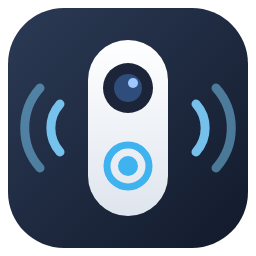
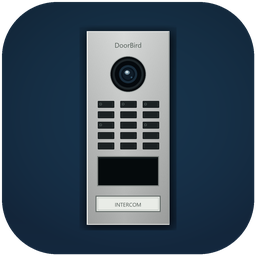
Prepare community plugin submission

diff --git a/tools/generate_icon.py b/tools/generate_icon.py
@@ -1,0 +1,114 @@
+#!/usr/bin/env python3
+"""Generate an original icon resembling DoorBird's flush-mounted metal door stations."""
+from pathlib import Path
+import random
+from PIL import Image, ImageDraw, ImageFilter, ImageFont
+
+SIZE = 1024
+OUT = Path(__file__).resolve().parents[1] / 'assets' / 'icon.png'
+
+image = Image.new('RGBA', (SIZE, SIZE))
+pixels = image.load()
+for y in range(SIZE):
+    for x in range(SIZE):
+        t = y / (SIZE - 1)
+        glow = max(0.0, 1.0 - (((x - 540) / 850) ** 2 + ((y - 250) / 750) ** 2))
+        pixels[x, y] = (
+            int(13 + 7 * t + 8 * glow),
+            int(24 + 16 * t + 22 * glow),
+            int(39 + 23 * t + 28 * glow),
+            255,
+        )
+mask = Image.new('L', (SIZE, SIZE), 0)
+ImageDraw.Draw(mask).rounded_rectangle((8, 8, 1016, 1016), radius=220, fill=255)
+image.putalpha(mask)
+background = image.copy()
+
+shadow = Image.new('RGBA', (SIZE, SIZE), 0)
+ImageDraw.Draw(shadow).rectangle((300, 34, 738, 1010), fill=(0, 0, 0, 190))
+shadow = shadow.filter(ImageFilter.GaussianBlur(25))
+image.alpha_composite(shadow)
+
+panel = Image.new('RGBA', (SIZE, SIZE), 0)
+panel_pixels = panel.load()
+random.seed(17)
+for y in range(28, 996):
+    for x in range(306, 718):
+        horizontal = x - 306
+        vertical = (y - 28) / 968
+        center_light = 24 * (1 - abs(horizontal / 412 - 0.45) * 1.6)
+        brushed = random.choice((-3, -2, -1, 0, 0, 0, 1, 2, 3))
+        shade = int(183 + center_light - 42 * vertical + brushed)
+        panel_pixels[x, y] = (min(238, shade + 10), min(240, shade + 12), min(240, shade + 11), 255)
+image.alpha_composite(panel)
+draw = ImageDraw.Draw(image)
+draw.rectangle((306, 28, 718, 996), outline='#E8EAE8', width=4)
+draw.line((309, 31, 309, 992), fill='#FAFAF6', width=3)
+draw.line((715, 31, 715, 992), fill='#858B89', width=3)
+
+
+def font(size):
+    for name in ('segoeui.ttf', 'arial.ttf'):
+        try:
+            return ImageFont.truetype(name, size)
+        except OSError:
+            pass
+    return ImageFont.load_default()
+
+
+def centered(text, y, font_size, color):
+    face = font(font_size)
+    box = draw.textbbox((0, 0), text, font=face)
+    draw.text((512 - (box[2] - box[0]) / 2, y), text, font=face, fill=color)
+
+
+centered('DoorBird', 74, 34, '#505B55')
+
+def camera_ellipse(bounds, color):
+    center_x, center_y, scale = 512, 243, 0.78
+    scaled = tuple(round(value) for value in (
+        center_x + (bounds[0] - center_x) * scale,
+        center_y + (bounds[1] - center_y) * scale,
+        center_x + (bounds[2] - center_x) * scale,
+        center_y + (bounds[3] - center_y) * scale,
+    ))
+    draw.ellipse(scaled, fill=color)
+
+
+camera_ellipse((395, 126, 629, 360), '#A2A8A6')
+camera_ellipse((401, 132, 623, 354), '#090D10')
+camera_ellipse((414, 145, 610, 341), '#1D2529')
+camera_ellipse((427, 158, 597, 328), '#05090D')
+camera_ellipse((454, 185, 570, 301), '#192C3B')
+camera_ellipse((468, 199, 556, 287), '#07111B')
+camera_ellipse((478, 209, 546, 277), '#101D29')
+camera_ellipse((490, 218, 522, 245), '#6A8798')
+camera_ellipse((497, 222, 513, 237), '#D1E0E4')
+camera_ellipse((529, 258, 539, 269), '#31546A')
+
+for row in range(5):
+    for column in range(3):
+        x = 361 + column * 112
+        y = 377 + row * 52
+        draw.rounded_rectangle((x, y, x + 82, y + 34), radius=3, fill='#252B2C')
+        draw.rectangle((x + 3, y + 3, x + 79, y + 31), outline='#0B1012', width=2)
+        for dot in range(4):
+            draw.line((x + 10, y + 9 + dot * 5, x + 72, y + 9 + dot * 5), fill='#0D1416', width=2)
+        if row == 0 or (row == 2 and column != 1):
+            draw.ellipse((x + 9, y + 10, x + 20, y + 21), outline='#64716D', width=2)
+
+draw.rectangle((358, 653, 666, 803), fill='#7F8582')
+draw.rectangle((363, 658, 661, 798), fill='#050A0C')
+draw.line((368, 663, 656, 663), fill='#172226', width=3)
+
+draw.rectangle((350, 851, 674, 932), fill='#676F6C')
+draw.rectangle((355, 856, 669, 927), fill='#E9ECE7')
+draw.rectangle((360, 861, 664, 922), outline='#B4BAB5', width=2)
+centered('INTERCOM', 876, 27, '#525B56')
+
+foreground = image.crop((270, 0, 754, 1024)).resize((388, 819), Image.Resampling.LANCZOS)
+image = background.copy()
+image.alpha_composite(foreground, (318, 102))
+image = image.resize((256, 256), Image.Resampling.LANCZOS)
+image.save(OUT, 'PNG', optimize=True)
+print(f'Wrote {OUT} ({OUT.stat().st_size} bytes)')

diff --git a/README.md b/README.md
@@ -31,12 +31,22 @@ The plugin connects directly to the DoorBird. It needs no DoorBird cloud account
 
 ## Installation
 
+### Community Plugins (Recommended)
+
+DoorBird Intercom is listed in [Community Plugins](https://kiosksatellite.com/plugins/). Use the button below to open it in your Kiosk Satellite and install it.
+
+[![Install in Kiosk Satellite](https://kiosksatellite.com/img/badges/plugin-add.svg)](https://kiosksatellite.com/redirect/plugin/?repository=Bjoern3003/kiosk-satellite-doorbird-intercom)
+
+Or search for `DoorBird Intercom` in **Settings > Plugin Manager > Browse plugins** in Kiosk Satellite.
+
+### Manual
+
 1. In Kiosk Satellite, open **Settings > Plugin Manager** and enable **Enable Plugins**.
 2. Choose **Add plugin**, enter `https://github.com/Bjoern3003/kiosk-satellite-doorbird-intercom`, then **Preview**.
 3. Review the source, requested capabilities and README, then choose **Trust and install**.
 4. Enable **DoorBird Intercom** and open its settings.
 
-For a local build, use **Plugin Manager > Developer Tools > Install from ZIP** and select `dist/doorbird-intercom-1.0.2.zip`. Update without uninstalling to retain settings.
+For a local build, use **Plugin Manager > Developer Tools > Install from ZIP** and select `dist/doorbird-intercom-1.0.3.zip`. Update without uninstalling to retain settings.
 
 ## Setup
 
